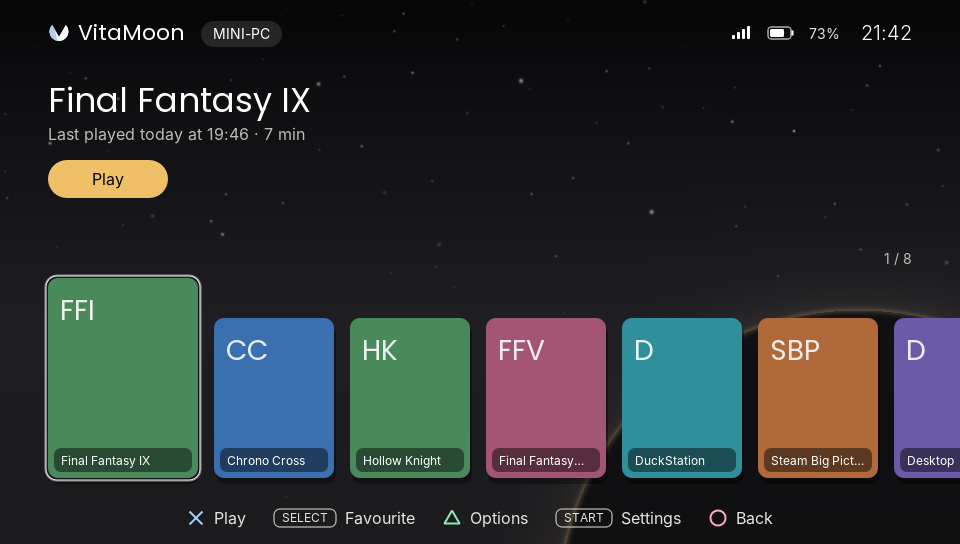
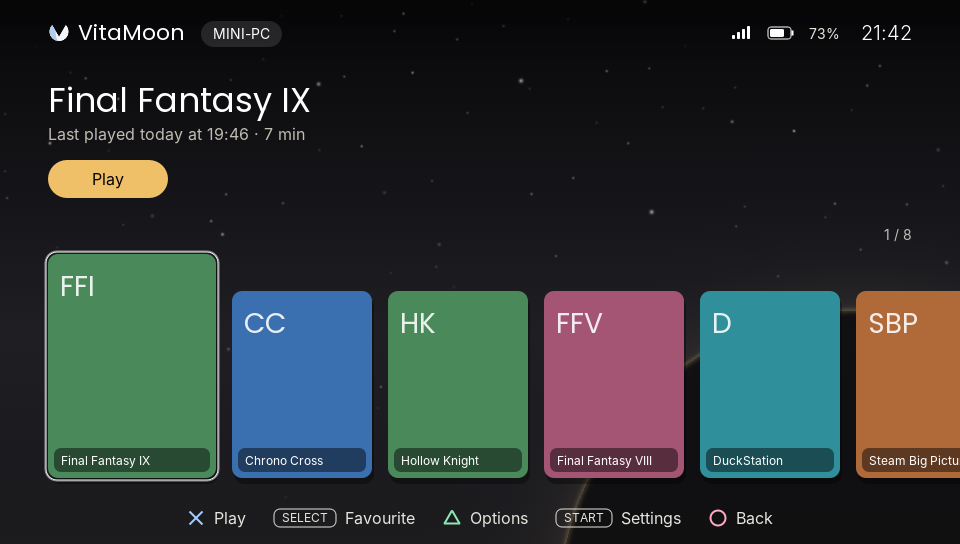
VitaMoon 1.1.0-beta.4: bigger covers on the home and in the library
At 96 x 128 the home's covers could not be read well on a Vita.
- Home row: four games at 120 x 160 and See all (was five at 96 x 128);
  up to two recent games, then the favourites, then the other recent
  games and the library. Large card 160 px high, its cover 96 x 128.
- Home, Library preview: 5 x 2 covers at 120 x 160 (was 6 x 2 at 100 x 133).
- Library page: 140 x 187, selected 168 x 224 (was 120 x 160 / 150 x 200).

test_home.c: 60 checks (row order with four places). Previews in three
languages, 33 journeys, ASan/UBSan clean on home and library screens.

Claude-Session: https://claude.ai/code/session_01Ed8rSnrHG22pSQVXJwzXc6

Changed region(s): [[0.0312, 0.4375, 1.0, 0.9062]]

diff --git a/src/gui/ui_home.c b/src/gui/ui_home.c
@@ -68,17 +68,22 @@
 #define TILE_R 16.0f
 #define PREVIEW_TOP 128.0f                  /* under a preview's title */
 #define ICON_SIZE ICON_HOME_SIZE
-/* Home: the large card, then the row of covers */
-#define HERO_H 182.0f
-#define SLOT_W 96.0f
-#define SLOT_H 128.0f
-#define SLOT_Y (AREA_Y + HERO_H + 38)       /* 302 */
-#define SLOT_GAP ((AREA_W - 6 * SLOT_W) / 5)
-#define ROW_GAMES 5                         /* then "See all" */
-/* Library preview: two rows of six covers */
-#define SHELF_W 100.0f
-#define SHELF_H 133.0f
-#define SHELF_GAP_Y 18.0f
+/* Home: the large card, then the row of covers (the size of the Library page's
+ * covers before 1.1.0-beta.4: 96 x 128 could not be read well on the Vita) */
+#define HERO_H 160.0f
+#define HERO_COVER_W 96.0f
+#define HERO_COVER_H 128.0f
+#define SLOT_W 120.0f
+#define SLOT_H 160.0f
+#define SLOT_Y (AREA_Y + HERO_H + 34)       /* 276 */
+#define SLOT_GAP ((AREA_W - (ROW_GAMES + 1) * SLOT_W) / ROW_GAMES)
+#define ROW_GAMES 4                         /* then "See all" */
+/* Library preview: two rows of five covers */
+#define SHELF_COLS 5
+#define SHELF_SHOWN 10
+#define SHELF_W 120.0f
+#define SHELF_H 160.0f
+#define SHELF_GAP_Y 16.0f
 /* Computers preview */
 #define PC_CARD_H 200.0f                    /* one PC */
 #define PC_ROW_H 60.0f                      /* each of several PCs */
@@ -627,11 +632,11 @@ static void panel_layout(int menu, home_panel *p, rect *where) {
     case HOME_MENU_LIBRARY:
       if (!shown_host() || !view.has_games)
         break;
-      for (int k = 0; k < view.games.shelf_count && k < HOME_SHELF_MAX; k++) {
-        float gap = (AREA_W - 6 * SHELF_W) / 5;
-        i = home_panel_add(p, k / 6, k % 6, 1);
-        where[i] = (rect){AREA_X + (k % 6) * (SHELF_W + gap), PREVIEW_TOP + (k / 6) * (SHELF_H + SHELF_GAP_Y), SHELF_W,
-                          SHELF_H};
+      for (int k = 0; k < view.games.shelf_count && k < SHELF_SHOWN; k++) {
+        float gap = (AREA_W - SHELF_COLS * SHELF_W) / (SHELF_COLS - 1);
+        i = home_panel_add(p, k / SHELF_COLS, k % SHELF_COLS, 1);
+        where[i] = (rect){AREA_X + (k % SHELF_COLS) * (SHELF_W + gap),
+                          PREVIEW_TOP + (k / SHELF_COLS) * (SHELF_H + SHELF_GAP_Y), SHELF_W, SHELF_H};
       }
       break;
     case HOME_MENU_COMPUTERS: {
@@ -705,7 +710,7 @@ static void draw_hero(bool focused) {
   card_box(r.x, r.y, r.w, r.h, TILE_R, focused);
   const device_info_t *host = shown_host();
   const char *host_name = host ? host->name : ui_connect_host_label();
-  float cover_x = r.x + 18, cover_y = r.y + 19, cw = 108, ch = 144;
+  float cover_x = r.x + 18, cover_y = r.y + (HERO_H - HERO_COVER_H) / 2, cw = HERO_COVER_W, ch = HERO_COVER_H;
   float tx = cover_x + cw + 22, tw = r.x + r.w - 22 - tx;
   const char *tag = "", *title = "", *button = "", *icon = NULL;
   char title_buf[160] = "", meta[2][200] = {"", ""};
@@ -785,15 +790,15 @@ static void draw_hero(bool focused) {
       theme_text_fit_center(cover_x + cw / 2, cover_y + ch / 2 + 28, TH_TEXT3, TS_MICRO, host_name, (int)cw - 12);
   }
 
-  theme_text_fit(tx, r.y + 40, tag_color, TS_SMALL, tag, (int)tw);
-  theme_text_fit(tx, r.y + 76, TH_TEXT, TS_TITLE, title, (int)tw);
-  draw_wrapped(tx, r.y + 102, TS_SMALL, TH_TEXT3, meta[0], (int)tw, 2, 18);
+  theme_text_fit(tx, r.y + 36, tag_color, TS_SMALL, tag, (int)tw);
+  theme_text_fit(tx, r.y + 70, TH_TEXT, TS_TITLE, title, (int)tw);
+  draw_wrapped(tx, r.y + 94, TS_SMALL, TH_TEXT3, meta[0], (int)tw, 1, 18);
   float bw = theme_text_width(TS_HINT, button) + (icon ? 70 : 52);
   if (bw < 210)
     bw = 210;
   if (bw > tw)
     bw = tw;
-  draw_button(tx, r.y + HERO_H - 14 - 44, bw, 44, icon, button, focused);
+  draw_button(tx, r.y + HERO_H - 16 - 42, bw, 42, icon, button, focused);
 }
 
 static const char *row_kind_label(int kind) {
@@ -806,7 +811,7 @@ static const char *row_kind_label(int kind) {
 
 static void draw_row(void) {
   int focus = nav.in_panel && nav.menu == HOME_MENU_HOME ? nav.item : -1;
-  float label_y = SLOT_Y - 14, under_y = SLOT_Y + SLOT_H + 28;
+  float label_y = SLOT_Y - 12, under_y = SLOT_Y + SLOT_H + 24;
   if (view.row_count == 0) {
     draw_wrapped(slot_x(0), SLOT_Y + 50, TS_HINT, TH_TEXT2, tr("Open the library once: your games will show up here."),
                  (int)(slot_x(ROW_GAMES) - slot_x(0) - SLOT_GAP), 2, 22);

diff --git a/src/gui/home_logic.h b/src/gui/home_logic.h
@@ -332,11 +332,12 @@ static inline int home_pick_host(const char *const opened[], int count) {
   return best;
 }
 
-/* The row of games under the large card: the other games played last, then
- * the favourites, then the start of the library, never one twice nor the
+/* The row of games under the large card: up to two other games played last
+ * (so that favourites show in a row of four), then the favourites, then the
+ * other recent games and the start of the library, never one twice nor the
  * game of the large card (skip_id). Returns how many (<= max). */
 enum { HOME_ROW_RECENT, HOME_ROW_FAVOURITE, HOME_ROW_GAMES };
-#define HOME_ROW_RECENT_MAX 3
+#define HOME_ROW_RECENT_MAX 2
 
 typedef struct {
   const home_game *game;
@@ -345,9 +346,12 @@ typedef struct {
 
 static inline int home_row_games(const home_games *g, int skip_id, home_row_game out[], int max) {
   int n = 0;
-  for (int pass = 0; pass < 3 && n < max; pass++) {
-    const home_game *list = pass == 0 ? g->recent : g->shelf;
-    int count = pass == 0 ? g->recent_count : g->shelf_count;
+  /* passes: the first recent games, the favourites, the other recent games, the library */
+  static const int k_kind[4] = {HOME_ROW_RECENT, HOME_ROW_FAVOURITE, HOME_ROW_RECENT, HOME_ROW_GAMES};
+  for (int pass = 0; pass < 4 && n < max; pass++) {
+    bool recent = pass == 0 || pass == 2;
+    const home_game *list = recent ? g->recent : g->shelf;
+    int count = recent ? g->recent_count : g->shelf_count;
     int taken = 0;
     for (int i = 0; i < count && n < max; i++) {
       if (pass == 0 && taken >= HOME_ROW_RECENT_MAX)
@@ -360,7 +364,7 @@ static inline int home_row_games(const home_games *g, int skip_id, home_row_game
         seen = out[k].game->id == id;
       if (seen)
         continue;
-      out[n++] = (home_row_game){&list[i], pass};
+      out[n++] = (home_row_game){&list[i], k_kind[pass]};
       taken++;
     }
   }

diff --git a/tools/tests/test_home.c b/tools/tests/test_home.c
@@ -249,12 +249,16 @@ int main(void) {
     lots.shelf[lots.shelf_count].id = 200 + i;
     lots.shelf[lots.shelf_count++].favourite = true;
   }
-  k = home_row_games(&lots, lots.recent[0].id, row, 5);
-  int recents = 0;
-  for (int i = 0; i < k; i++)
-    recents += row[i].kind == HOME_ROW_RECENT;
-  CHECK(k == 5 && recents == 3 && row[3].kind == HOME_ROW_FAVOURITE && row[4].kind == HOME_ROW_FAVOURITE,
-        "at most three recent games, so that favourites show too");
+  k = home_row_games(&lots, lots.recent[0].id, row, 4);
+  CHECK(k == 4 && row[0].kind == HOME_ROW_RECENT && row[1].kind == HOME_ROW_RECENT &&
+            row[2].kind == HOME_ROW_FAVOURITE && row[3].kind == HOME_ROW_FAVOURITE,
+        "a row of four: two recent games, then the favourites");
+  for (int i = 0; i < lots.shelf_count; i++)
+    lots.shelf[i].favourite = false;
+  k = home_row_games(&lots, lots.recent[0].id, row, 4);
+  CHECK(lots.recent_count == HOME_RECENT_MAX && k == 4 && row[2].kind == HOME_ROW_RECENT &&
+            row[2].game->id == lots.recent[3].id && row[3].kind == HOME_ROW_GAMES && row[3].game->id == 200,
+        "no favourite: the other recent game comes next, then the library");
   home_games one;
   memset(&one, 0, sizeof(one));
   one.shelf_count = 1;

diff --git a/src/gui/ui_library.c b/src/gui/ui_library.c
@@ -40,10 +40,10 @@
 #include "../i18n.h"
 
 #define MAX_ITEMS 128
-#define COVER_W 120.0f
-#define COVER_H 160.0f
-#define COVER_FW 150.0f       /* focused cover */
-#define COVER_FH 200.0f
+#define COVER_W 140.0f       /* 1.1.0-beta.4: was 120 x 160, read better on the Vita */
+#define COVER_H 187.0f
+#define COVER_FW 168.0f       /* focused cover (was 150 x 200) */
+#define COVER_FH 224.0f
 #define COVER_GAP 16.0f
 #define SHELF_X ((float)TH_MARGIN)
 #define SHELF_BOTTOM 478.0f

diff --git a/CHANGELOG.md b/CHANGELOG.md
@@ -3,6 +3,22 @@
 All notable changes of this project. Versions follow [Semantic Versioning](https://semver.org);
 milestones are named after the phases of the moon ([docs/RELEASING.md](docs/RELEASING.md)).
 
+## 1.1.0-beta.4 "Premier Croissant" (2026-11-19)
+
+Bigger covers, after a test on a Vita: at 96 x 128 they could not be read well. Nothing else changes.
+
+- Home: the row under the large card shows four games and *See all* at 120 x 160 (was five at
+  96 x 128): up to two other games played last, then the favourites (so that they stay in sight),
+  then the other recent games and the library. The large card is 160 px high (was 182), its cover
+  96 x 128 (was 108 x 144).
+- Home, Library preview: two rows of five covers at 120 x 160 (was six at 100 x 133), the first
+  ten games.
+- Library page: covers of 140 x 187 (was 120 x 160), 168 x 224 for the selected one (was 150 x 200);
+  about five and a half in sight; the "1 / 8" counter moves up with them.
+- Tests: the row's order checked again (`test_home.c`, 60 checks); every screen rendered in three
+  languages, the 33 journeys, and the home and library screens clean under AddressSanitizer and UBSan;
+  a frame of the home uses at most 7.7% of vita2d's vertex pool, the library 5.8%.
+
 ## 1.1.0-beta.3 "Premier Croissant" (2026-11-18)
 
 The home screen reworked after the first tests on a Vita, a Help page, and Eclipse as the starting

diff --git a/docs/GUIDE-FR.md b/docs/GUIDE-FR.md
@@ -50,9 +50,9 @@ droite, l'aperçu de l'entrée sous le curseur.
   utilisé, sans passer par la bibliothèque ; Reprendre un stream en pause ; Réveiller le PC quand la
   recherche le voit éteint et que son adresse réseau est connue ; Options du PC s'il ne répond pas ou
   répond d'une nouvelle adresse ; Ouvrir la bibliothèque tant qu'elle n'a pas été ouverte une fois),
-  puis une rangée de jaquettes : jusqu'à trois autres jeux joués récemment, les favoris, la suite de la
-  bibliothèque, et « Tout voir ». ✕ sur une jaquette lance le jeu.
-- Bibliothèque : les douze premiers jeux ; ✕ sur une jaquette lance le jeu.
+  puis une rangée de quatre jaquettes : jusqu'à deux autres jeux joués récemment, les favoris, les autres
+  jeux récents et la suite de la bibliothèque, et « Tout voir ». ✕ sur une jaquette lance le jeu.
+- Bibliothèque : les dix premiers jeux (deux rangées de cinq) ; ✕ sur une jaquette lance le jeu.
 - Ordinateurs : les PC appairés (un seul en détail, plusieurs en liste), « Rechercher sur le réseau » et
   « Saisir une adresse » ; ✕ connecte un PC en ligne ou ouvre le menu d'un PC qui ne répond pas.
 - Réglages : une carte par rubrique avec ses valeurs principales ; ✕ ouvre les réglages directement sur
